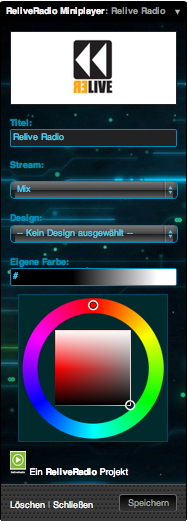
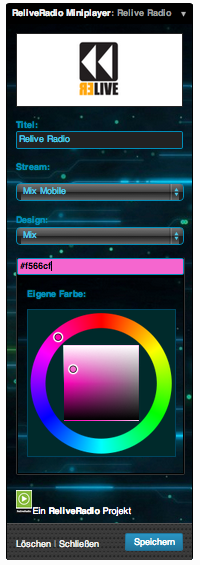
2.2.4 Widget - Mini Player

diff --git a/Wordpress-ReliveRadio-Shortcode/relive-radio-widget/relive-plugin-widget.php b/Wordpress-ReliveRadio-Shortcode/relive-radio-widget/relive-plugin-widget.php
@@ -3,7 +3,7 @@
 Plugin Name:  Relive Radio Widget Plugin
 Description:  Ermöglicht das Einbinden des ReliveRadio Miniplayers über die Widgets in die Sidebar
 Plugin URI:   http://labs.wikibyte.org
-Version:      2.2.3alpha
+Version:      2.2.4
 Author:       Michael McCouman jr.
 Author URI:   http://wikibyte.org/
 Props:        Michael McCouman jr.
@@ -24,7 +24,7 @@ Props:        Michael McCouman jr.
 add_action('admin_print_styles-widgets.php', 'relive_widgets_style');
 function relive_widgets_style(){
 
-    echo <<<EOF
+    echo '
 <style type="text/css">
 div#widget-list div.ui-draggable[id*=_relive_radio_widget] .widget-top {
 	border: none !important;
@@ -51,7 +51,12 @@ div.widget[id*=_relive_radio_widget] .widget-top{
     background: #000;
 }
 div.widget[id*=_relive_radio_widget] .widget-control-actions {
-	background: url(/wp-content/plugins/relive-plugin-widget/inc/patter.png) #333 !important;
+	background: url(
+'; 
+?>
+	<?php echo plugins_url('/inc/patter.png', __FILE__ ); ?>
+<?php echo '
+	) #333 !important;
 	padding: 12px;
 	margin-left: -12px;
 	margin-right: -12px;
@@ -59,7 +64,12 @@ div.widget[id*=_relive_radio_widget] .widget-control-actions {
 	border-top: 1px solid #555;
 }
 div.widget[id*=_relive_radio_widget] .widget-inside{
-    background: url(/wp-content/plugins/relive-plugin-widget/inc/bg.png) #000 !important;
+    background: url(
+';
+?>
+	<?php echo plugins_url('/inc/bg', __FILE__ ); ?>
+<?php echo '
+	) #000 !important;
 	border: 2px solid #000;
 }
 div.widget[id*=_relive_radio_widget] .cw-color-picker { 
@@ -74,7 +84,7 @@ div.widget[id*=_relive_radio_widget] .in-widget-title {
 	text-shadow: #222 0 0 0;
 }
 </style>
-EOF;
+';
 }
 
 
@@ -194,13 +204,9 @@ select.ins {
 	width: 100%;
 }
 .init {
-	background: url(/wp-content/plugins/relive-plugin-widget/inc/ini.png) center right #222;
+	background: url(<?php echo plugins_url('/inc/ini.png', __FILE__ ); ?> center right #222 !important;
 	border-color: #008DB9 !important;
 	color: #4EC8E7 !important;
-}
-.copy {
-	text-decoration: none !important;
-	color: #fff;
 }
 #<?php
 
@@ -278,10 +284,6 @@ echo $id[0].'-'.$id[1] . "-" . $id[2].'-savewidget';
   </div>
 */
 ?>
-
-
-
-
 
 <?
 #################### Label Title
@@ -392,16 +394,42 @@ echo $id[0].'-'.$id[1] . "-" . $id[2].'-savewidget';
 			});
 		});
 	//]]>   
-</script>		
+</script>
+<style>
+div#colla {
+	width:100% !important;
+	cursor:pointer !important;
+	border-left: 1px solid;
+	border-right: 1px solid;
+	border-bottom: 1px solid;
+	border-top: none !important;
+	box-shadow: none !important;
+	background-image:  none !important;
+	background: none !important;
+}
+div#wtitle {
+	padding: 0px !important;
+}
+</style>
+<div class="widget" id="colla" >
+	<div class="widget-top">
+		<div class="widget-title" id="wtitle">
+		<h4> <input style="border-color: #008DB9 !important;" class="widefat init" id="<?php echo $this->get_field_id('color'); ?>" name="<?php echo $this->get_field_name('color'); ?>" type="text" value="<?php if($color) { echo '#'.$color; } else { echo '#'; } ?>" /></h4>
+		</div>
+	</div>
+
+	<div class="widget-inside">	
 	<p>
 	  <label id="tc" for="<?php echo $this->get_field_id('color'); ?>"><b>Eigene Farbe:</b></label> 
-	  <input class="widefat init" id="<?php echo $this->get_field_id('color'); ?>" name="<?php echo $this->get_field_name('color'); ?>" type="text" value="<?php if($color) { echo '#'.$color; } else { echo '#'; } ?>" />
-		<center><div class="cw-color-picker" rel="<?php echo $this->get_field_id('color'); ?>"></div></center>
+	 	<center><div class="cw-color-picker" rel="<?php echo $this->get_field_id('color'); ?>"></div></center>
 	</p>
+	</div>
+</div>		
 	
-	<foo>
-	<a class="copy" target="_blank" href="http://dev.wikibyte.org/ReliveRadio/Downloads/Miniplayer"><img id="project" style="width: 22px;" src="<?php echo plugins_url('/inc/rr-widget.png', __FILE__ ); ?>" /> <span class="copy">Ein <b>ReliveRadio</b> Projekt</a></a>
-	</foo>
+	
+
+	<a style="text-decoration: none !important;color: #fff !important;" target="_blank" href="http://dev.wikibyte.org/ReliveRadio/Downloads/Miniplayer"><img style="text-decoration: none !important;color: #fff !important; width: 22px;" id="project" src="<?php echo plugins_url('/inc/rr-widget.png', __FILE__ ); ?>" /></a><a style="text-decoration: none !important;color: #fff !important;" target="_blank" href="http://dev.wikibyte.org/ReliveRadio/Downloads/Miniplayer"><span style="text-decoration: none !important;color: #fff !important;">Ein <b>ReliveRadio</b> Projekt</a>
+
 <?php 
 	}
 
